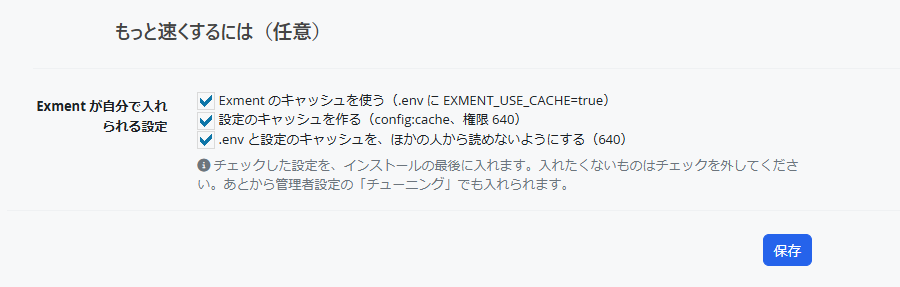
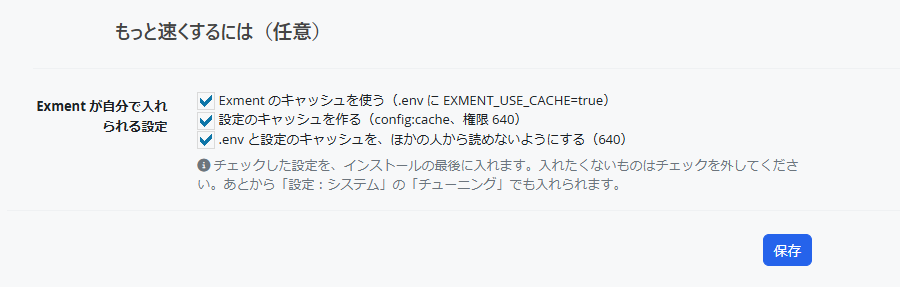
v7.2.1 の日付（2026/11/23）、同梱のパッケージの版 7.2.14、セットアップの画面写真を 7.2.1（#1976 の文）で撮り直し

Changed region(s): [[0.3111, 0.6132, 0.6844, 0.669]]

diff --git a/docs/ja/plugin_official.md b/docs/ja/plugin_official.md
@@ -11,7 +11,7 @@
 ### Exment v7.2.1 以降
 公式プラグインは、Exment と一緒に届いています。システム管理者が「管理者設定」→「機能の管理」の「[無料の公式プラグイン（Exment に同梱）](/ja/feature?id=無料の公式プラグイン（exment-に同梱）)」の欄で、「使う（インストールする）」を押すと入ります。押すまでは、インストールも読み込みもしません。
 
-- Exment 7.2.1 に同梱しているのは、プロジェクト管理（ExmentPM）1.7.15・IT サポート（ExmentITSupport）1.0.9・Groupware（ExmentGroupware）0.4.7 です（パッケージ exceedone/exment-plugins-release）。
+- Exment 7.2.1 に同梱しているのは、プロジェクト管理（ExmentPM）1.7.15・IT サポート（ExmentITSupport）1.0.9・Groupware（ExmentGroupware）0.4.7 です（パッケージ exceedone/exment-plugins-release 7.2.14）。
 - 同梱のプラグインは、エクシード・ワンの署名を確かめてから入れます。
 - 新しいバージョンがあるときは、お知らせだけします。「このバージョンに更新する」で更新し、「前のバージョン（○○）に戻す」で戻せます。
 - セキュリティの修正が入った新しいバージョンがあるときは、システム管理者に知らせます。詳細は[機能の管理](/ja/feature?id=セキュリティの修正のお知らせ)をご覧ください。

diff --git a/docs/vi/plugin_official.md b/docs/vi/plugin_official.md
@@ -11,7 +11,7 @@ Plugin chính thức là các plugin miễn phí của Exment do Exceed One phá
 ### Exment v7.2.1 trở đi
 Các plugin chính thức đi kèm Exment. Quản trị viên hệ thống bấm "Use (install)" (dùng / cài đặt) ở mục "[Free official plugins (bundled with Exment)](/vi/feature?id=plugin-chính-thức-miễn-phí-đi-kèm-exment)" của "Admin Setting" → "Feature Management". Trước khi bấm, không cài và không nạp gì.
 
-- Exment 7.2.1 đi kèm Quản lý dự án (ExmentPM) 1.7.15, IT Support (ExmentITSupport) 1.0.9 và Groupware (ExmentGroupware) 0.4.7 (gói exceedone/exment-plugins-release).
+- Exment 7.2.1 đi kèm Quản lý dự án (ExmentPM) 1.7.15, IT Support (ExmentITSupport) 1.0.9 và Groupware (ExmentGroupware) 0.4.7 (gói exceedone/exment-plugins-release 7.2.14).
 - Plugin đi kèm chỉ được cài sau khi kiểm tra chữ ký của Exceed One.
 - Phiên bản mới chỉ được thông báo. "Update to this version" (cập nhật lên phiên bản này) để cập nhật, "Back to the previous version (...)" (quay lại phiên bản trước) để quay lại.
 - Khi phiên bản mới có bản sửa lỗi bảo mật, quản trị viên hệ thống sẽ được báo. Xem [Quản lý tính năng](/vi/feature?id=thông-báo-bản-sửa-lỗi-bảo-mật).

diff --git a/docs/plugin_official.md b/docs/plugin_official.md
@@ -11,7 +11,7 @@ The official plugins are free plugins of Exment, made, tested and supported by E
 ### Exment v7.2.1 or later
 The official plugins come with Exment. A system administrator presses "Use (install)" in "[Free official plugins (bundled with Exment)](/feature?id=free-official-plugins-bundled-with-exment)" of "Admin Setting" > "Feature Management". Nothing is installed or loaded until then.
 
-- Exment 7.2.1 comes with Project Management (ExmentPM) 1.7.15, IT Support (ExmentITSupport) 1.0.9 and Groupware (ExmentGroupware) 0.4.7 (package exceedone/exment-plugins-release).
+- Exment 7.2.1 comes with Project Management (ExmentPM) 1.7.15, IT Support (ExmentITSupport) 1.0.9 and Groupware (ExmentGroupware) 0.4.7 (package exceedone/exment-plugins-release 7.2.14).
 - A bundled plugin is installed only after its signature by Exceed One is checked.
 - A newer version is only shown. "Update to this version" updates it, and "Back to the previous version (...)" puts it back.
 - When a newer version includes a security fix, the system administrators are told. See [Feature Management](/feature?id=notices-of-security-fixes).

diff --git a/docs/ja/release_note.md b/docs/ja/release_note.md
@@ -1,8 +1,7 @@
 # リリースノート
 ※パッチ・脆弱性リストは[こちら](/ja/patch_weakness)
 
-## v7.2.1 (2026/11/XX)
-<!-- TODO: リリースの日を書く -->
+## v7.2.1 (2026/11/23)
 - <span class="red bold">v7.2.1 が 7.2 の最初の公開版です。下の v7.2.0 の内容も含みます（v7.2.0 は公開を取り下げました）。</span>
 - <span class="red bold">左のメニューが、仕事の分類ごとの並びになります（「管理者設定」は「設定：データと画面」「設定：ユーザーと権限」「設定：システム」の 3 つに）。更新したサイトでは、Exment が置いたままのメニューだけが動き、ご自身で動かしたメニューはそのままです。</span>詳細は[こちら](/ja/menu?id=v721-からのメニューの並び)
 - 更新方法：`composer update` のあとに `php artisan exment:update` を実行し、ブラウザで Ctrl+F5（スーパーリロード）を押してください。詳細は[こちら](/ja/update)

diff --git a/docs/release_note.md b/docs/release_note.md
@@ -1,8 +1,7 @@
 # Release notes
 * Click [here](/patch_weakness) for the patch / vulnerability list.
 
-## v7.2.1 (2026/11/XX)
-<!-- TODO: the release date -->
+## v7.2.1 (2026/11/23)
 - <span class="red bold">v7.2.1 is the first public release of 7.2. It includes everything of v7.2.0 below (v7.2.0 was withdrawn).</span>
 - <span class="red bold">The left menu is grouped by area of work ("Admin Setting" becomes three groups: "Settings: Data & Screens", "Settings: Users & Permissions", "Settings: System"). On an updated site only the menus still where Exment put them move; menus you moved stay.</span> See [here](/menu?id=the-menu-from-v721)
 - How to update: run `composer update`, then `php artisan exment:update`, and press Ctrl+F5 (super reload) in the browser. Details [here](/update)
